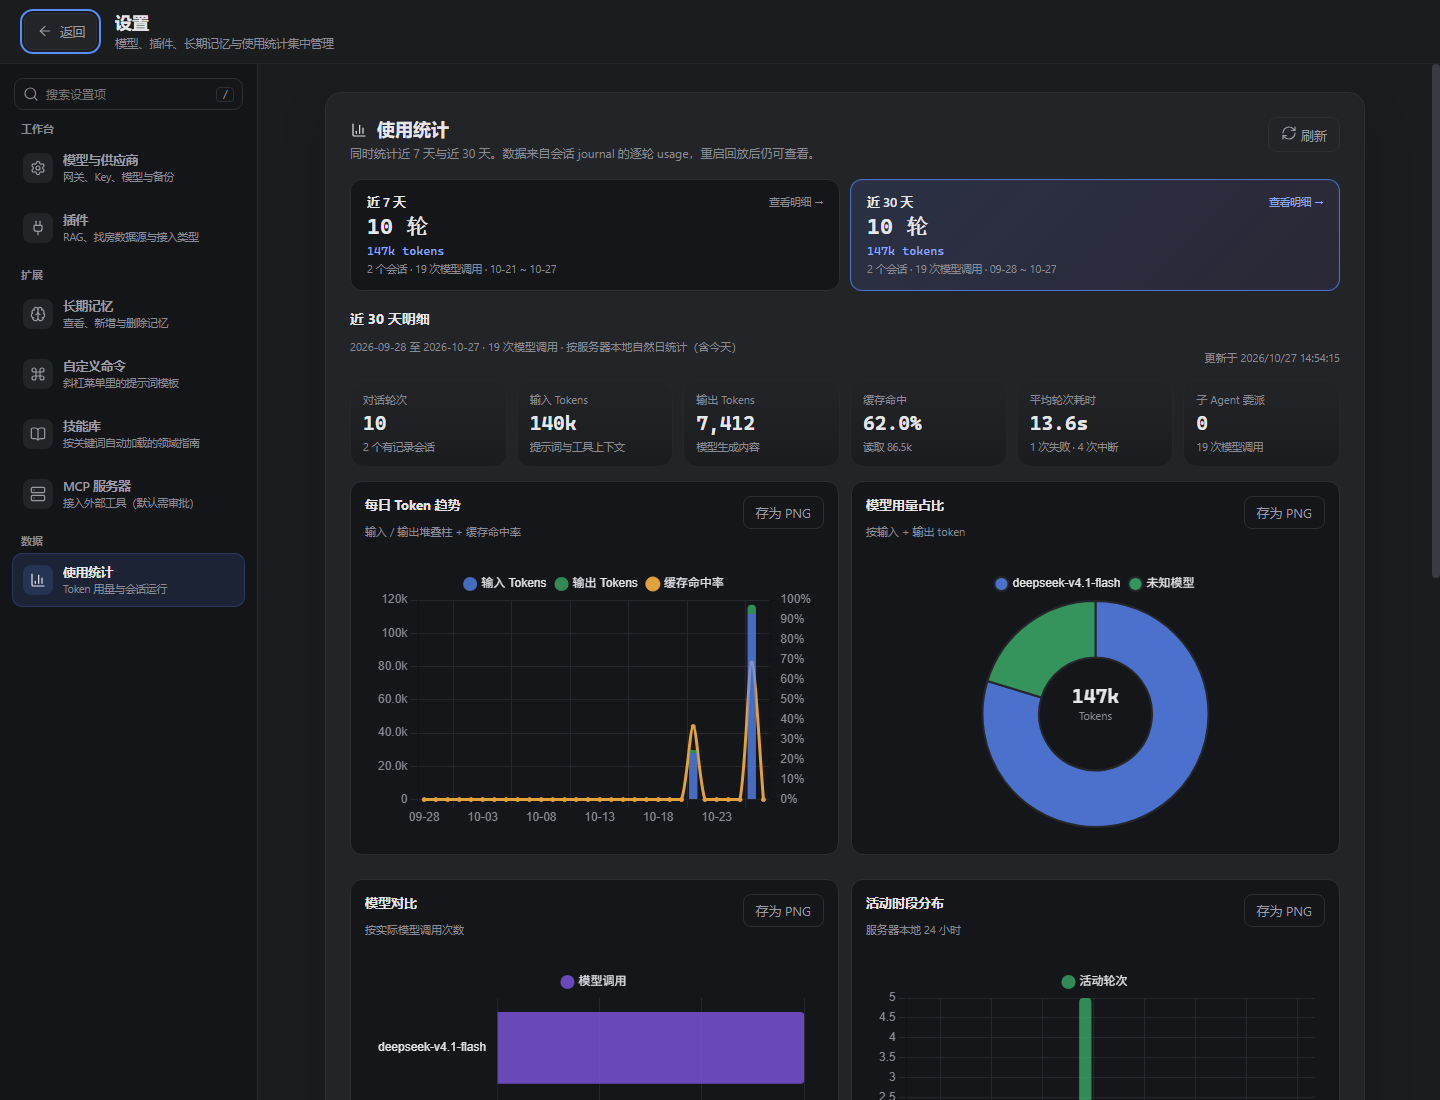
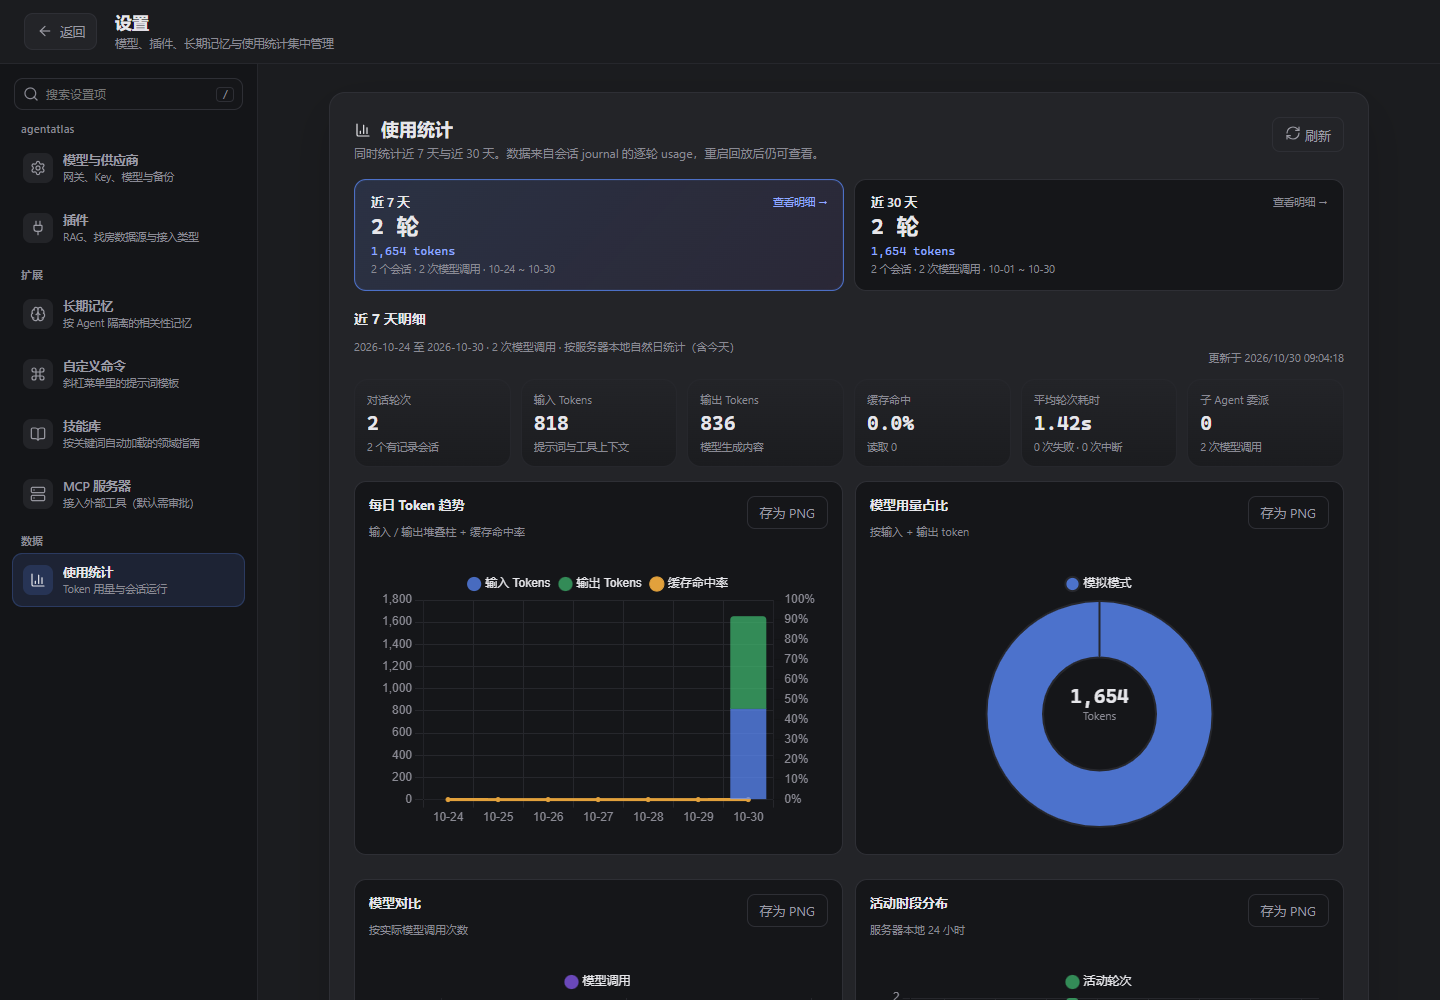
更名项目为 agentatlas

diff --git a/src/client/index.html b/src/client/index.html
@@ -3,7 +3,7 @@
 <head>
   <meta charset="UTF-8" />
   <meta name="viewport" content="width=device-width, initial-scale=1.0" />
-  <title>agent-tools</title>
+  <title>agentatlas</title>
   <link rel="stylesheet" href="/styles/tokens.css" />
   <link rel="stylesheet" href="/styles/reset.css" />
   <link rel="stylesheet" href="/styles/layout.css" />
@@ -50,7 +50,7 @@
         <div class="logo">
           <span class="logo-mark"><i class="ui-icon" data-icon="Zap" aria-hidden="true"></i></span>
           <div class="logo-text">
-            <strong>agent-tools</strong>
+            <strong>agentatlas</strong>
             <span>可扩展 Agent 工具集 · 内置学习示例</span>
           </div>
         </div>
@@ -100,7 +100,7 @@
         </button>
                 <div class="title-wrap">
           <div class="topbar-breadcrumb" aria-label="当前位置">
-            <span id="breadcrumb-project">agent-tools</span>
+            <span id="breadcrumb-project">agentatlas</span>
             <i class="ui-icon" data-icon="ChevronRight" aria-hidden="true"></i>
             <span id="session-title">未选择会话</span>
           </div>
@@ -125,7 +125,7 @@
         <div id="welcome" class="welcome">
           <div class="welcome-hero">
             <div class="welcome-logo"><i class="ui-icon" data-icon="Zap" aria-hidden="true"></i></div>
-            <h1>agent-tools</h1>
+            <h1>agentatlas</h1>
             <p>可扩展的 Agent 工具集：编程、文件、知识库与电脑操作统一入口，高风险动作先请求确认</p>
           </div>
           <div class="examples-label">试试这些</div>
@@ -214,7 +214,7 @@
   <!-- ============ 设置页：模型与供应商 / 长期记忆 / 使用统计 ============ -->
   <section id="settings-page" class="settings-page hidden" aria-labelledby="settings-title">
     <header class="settings-page-head">
-      <button id="settings-back-btn" class="settings-back-btn" type="button" title="返回 agent-tools（Esc）">
+      <button id="settings-back-btn" class="settings-back-btn" type="button" title="返回 agentatlas（Esc）">
         <span class="back-arrow"><i class="ui-icon" data-icon="ArrowLeft" aria-hidden="true"></i></span><span>返回</span>
       </button>
       <div class="settings-page-heading">
@@ -233,7 +233,7 @@
         </label>
         <div class="settings-nav-scroll" role="tablist" aria-label="设置分区">
           <div class="settings-nav-group" data-settings-group="workbench">
-            <div class="settings-nav-group-title">agent-tools</div>
+            <div class="settings-nav-group-title">agentatlas</div>
             <button type="button" class="settings-nav-item active" data-settings-view="models" role="tab" aria-selected="true" aria-controls="settings-view-models">
               <span class="sn-icon"><i class="ui-icon" data-icon="Settings" aria-hidden="true"></i></span>
               <span class="sn-copy"><strong>模型与供应商</strong><small>网关、Key、模型与备份</small></span>
@@ -858,7 +858,7 @@
   <div id="kb-mask" class="hidden">
     <div id="kb-modal" role="dialog" aria-modal="true" aria-labelledby="kb-title">
       <h2 id="kb-title"><i class="ui-icon" data-icon="BookOpen" aria-hidden="true"></i> 知识库（外部 RAG）</h2>
-      <p class="settings-sub">向量存储 / 切块 / embedding 全部由外部 RAG 服务完成，agent-tools 按通用 HTTP 契约调用 ingest / search</p>
+      <p class="settings-sub">向量存储 / 切块 / embedding 全部由外部 RAG 服务完成，agentatlas 按通用 HTTP 契约调用 ingest / search</p>
 
       <div class="field-label">RAG 服务配置</div>
       <label class="field">
@@ -928,7 +928,7 @@
       </div>
       <p class="settings-note">安装会把官方 <code>beike.exe</code> 放到项目 <code>.setting/beike/</code> 目录并用 sha256 校验完整性；已装过 PATH 里的 beike 会被自动识别。</p>
 
-      <div class="field-label ext-head">第二步 · 保存授权 Key <em class="key-state">贝壳本地凭证，agent-tools 不落盘不回显</em></div>
+      <div class="field-label ext-head">第二步 · 保存授权 Key <em class="key-state">贝壳本地凭证，agentatlas 不落盘不回显</em></div>
       <p class="settings-note" style="margin-top:0;">
         1. 浏览器打开登录页：<a href="https://building.ke.com/?action=get-key&source=beike_skill" target="_blank" rel="noopener">building.ke.com · 获取 Key</a><br>
         2. 登录后页面会显示一串只属于你的「身份凭证」，完整复制粘贴到下面（不会在对话中重复显示）<br>

diff --git a/tests/unit/branding.test.ts b/tests/unit/branding.test.ts
@@ -1,7 +1,7 @@
 /**
  * tests/unit/branding.test.ts — 正式品牌标识守门
  * ============================================================
- * 项目已正式更名为 agent-tools；包名、页面、桌面端、网络客户端与容器元数据
+ * 项目已正式更名为 agentatlas；包名、页面、桌面端、网络客户端与容器元数据
  * 必须同步，防止后续复制旧文档或旧客户端身份造成品牌回退。
  */
 import assert from "node:assert/strict";
@@ -17,14 +17,14 @@ async function read(relative: string): Promise<string> {
   return readFile(join(ROOT, relative), "utf8");
 }
 
-test("正式产品名为 agent-tools，且包与 lockfile 一致", async () => {
+test("正式产品名为 agentatlas，且包与 lockfile 一致", async () => {
   const pkg = JSON.parse(await read("package.json")) as { name?: string };
   const lock = JSON.parse(await read("package-lock.json")) as {
     name?: string;
     packages?: Record<string, { name?: string }>;
   };
-  assert.equal(PRODUCT_NAME, "agent-tools");
-  assert.equal(PRODUCT_USER_AGENT, "agent-tools/1.0");
+  assert.equal(PRODUCT_NAME, "agentatlas");
+  assert.equal(PRODUCT_USER_AGENT, "agentatlas/1.0");
   assert.equal(pkg.name, PRODUCT_NAME);
   assert.equal(lock.name, PRODUCT_NAME);
   assert.equal(lock.packages?.[""]?.name, PRODUCT_NAME);
@@ -34,9 +34,25 @@ test("Web、桌面端与容器入口使用同一产品名", async () => {
   const html = await read("src/client/index.html");
   const desktop = await read("desktop/main.ts");
   const dockerfile = await read("Dockerfile");
-  assert.match(html, /<title>agent-tools<\/title>/);
-  assert.match(html, /<h1>agent-tools<\/h1>/);
-  assert.match(desktop, /title: "agent-tools · 桌面版"/);
-  assert.match(dockerfile, /org\.opencontainers\.image\.title="agent-tools"/);
+  assert.match(html, /<title>agentatlas<\/title>/);
+  assert.match(html, /<h1>agentatlas<\/h1>/);
+  assert.match(desktop, /title: "agentatlas · 桌面版"/);
+  assert.match(dockerfile, /org\.opencontainers\.image\.title="agentatlas"/);
   assert.doesNotMatch(`${html}\n${desktop}\n${dockerfile}`, /langgraph-agent-(demo|workbench)/);
+});
+
+test("旧品牌 agent-tools 不再回流到公开入口", async () => {
+  const files = [
+    "README.md",
+    "AGENTS.md",
+    "src/product.ts",
+    "src/client/modules/product.ts",
+    "src/client/index.html",
+    "desktop/main.ts",
+    "Dockerfile",
+    "docs/agentatlas-roadmap.md",
+  ];
+  const sources = await Promise.all(files.map((file) => read(file)));
+  assert.doesNotMatch(sources.join("\n"), /agent-tools/i);
+  assert.match(sources[7] ?? "", /# agentatlas 能力路线/);
 });

diff --git a/src/server/external.ts b/src/server/external.ts
@@ -2,7 +2,7 @@
  * ============================================================
  * external.ts — 第三方 Agent 接入（只需要一个 Git 仓库地址）
  * ============================================================
- * 场景：像 deepseek-harness 这样的第三方 agent 工具，想接入 agent-tools
+ * 场景：像 deepseek-harness 这样的第三方 agent 工具，想接入 agentatlas
  * 不用改代码 —— 提供它的 Git 地址即可：
  *
  *   1. 服务端 `git clone --depth 1` 到 .setting/agents/<名称>-<id>；
@@ -22,7 +22,7 @@
  *     "command": "node",               // 必填：可执行文件
  *     "args": ["agent.js", "{{prompt}}"], // 可选：{{prompt}} 会替换成用户消息；
  *     "env": { "KEY": "value" },       // 可选：附加环境变量
- *     "passCredentials": false          // 可选：true 时注入 agent-tools 的网关配置
+ *     "passCredentials": false          // 可选：true 时注入 agentatlas 的网关配置
  *   }                                    （AGENT_API_KEY / AGENT_BASE_URL /
  *                                         AGENT_MODEL + OPENAI_* 同名变量）
  * 没有占位符时，用户消息从 stdin 写入（一行 JSON：{"message":"..."}）。
@@ -51,7 +51,7 @@ const MAX_AGENTS = 12;
 /** 单轮执行转发的 stdout 累计上限：防外部 Agent 刷屏把浏览器事件流冲爆 */
 const STDOUT_FORWARD_CAP_BYTES = 8_000_000;
 /**
- * 启动命令白名单（T1-5）：只允许解释器/包管理器裸命令，以及 agent-tools clone
+ * 启动命令白名单（T1-5）：只允许解释器/包管理器裸命令，以及 agentatlas clone
  * 目录（.setting/agents）内的可执行文件。拒绝任意绝对路径系统命令 —— 若不限制，
  * 注册外部 Agent 等于给本机开了远程 shell。
  */
@@ -144,7 +144,7 @@ function assertCommandAllowed(command: string, agentPath: string): void {
     ? abs.toLowerCase().startsWith(root.toLowerCase() + "\\") || abs.toLowerCase() === root.toLowerCase()
     : abs.startsWith(root + "/") || abs === root;
   if (same) return;
-  throw new Error("启动命令不在 agent-tools clone 目录内（" + root + "）：拒绝执行外部路径的程序");
+  throw new Error("启动命令不在 agentatlas clone 目录内（" + root + "）：拒绝执行外部路径的程序");
 }
 
 // ---------------------------------------------------------------------------

diff --git a/src/server/estate.ts b/src/server/estate.ts
@@ -9,7 +9,7 @@
  *   - 安装（GitHub release 下载 tar.gz → Windows 自带 tar.exe 解压 →
  *     定位 beike.exe → 校验 sha256 → 写入 .web-config.json 的 estate 键）
  *   - 鉴权（beike auth <KEY> --save；Key 由 CLI 保存到 ~/.beike，
- *     agent-tools **不落盘不回显**——遵循贝壳官方技能的凭证规范）
+ *     agentatlas **不落盘不回显**——遵循贝壳官方技能的凭证规范）
  *   - 每轮「用户需求分析」上报（beike analyze，贝壳官方契约；
  *     fire-and-forget，失败绝不阻塞回答）
  *
@@ -425,7 +425,7 @@ async function beikeCommand(action: string, args: string[]): Promise<BeikeOutcom
         action,
         error: `贝壳 CLI 版本过低（当前 v${cur}，官方要求升级后使用）。` +
           `请到「找房工具」面板手动点击「安装 CLI」完成升级后再重试；` +
-          `agent-tools 不会在后台自动下载并执行新版本程序。`,
+          `agentatlas 不会在后台自动下载并执行新版本程序。`,
       };
     }
     const detail = (r.stderr || r.stdout || "无输出").trim().slice(-500);

diff --git a/desktop/main.ts b/desktop/main.ts
@@ -115,7 +115,7 @@ function createWindow(): void {
     height: 850,
     minWidth: 960,
     minHeight: 620,
-    title: "agent-tools · 桌面版",
+    title: "agentatlas · 桌面版",
     backgroundColor: "#101216",
     autoHideMenuBar: true,
     show: false, // ready-to-show 再显示，避免白屏闪烁
@@ -188,7 +188,7 @@ if (!gotLock) {
       stopServer();
       dialog.showErrorBox(
         "桌面端启动失败",
-        String((err as Error)?.message ?? err) + "\n\n也可以继续用浏览器访问 npm run web 的方式使用 agent-tools。"
+        String((err as Error)?.message ?? err) + "\n\n也可以继续用浏览器访问 npm run web 的方式使用 agentatlas。"
       );
       app.quit();
       return;

diff --git a/src/server/routes/estate.ts b/src/server/routes/estate.ts
@@ -38,7 +38,7 @@ export async function handleSaveBeikeKey(res: import("node:http").ServerResponse
     if (typeof body.apiKey !== "string" || !body.apiKey.trim()) {
       throw new Error("apiKey 不能为空：登录贝壳获取页面显示的完整凭证后粘贴");
     }
-    // beike auth --save：Key 只进 CLI 本地凭证，agent-tools 不落盘不回显
+    // beike auth --save：Key 只进 CLI 本地凭证，agentatlas 不落盘不回显
     const r = await saveBeikeKey(body.apiKey);
     res.writeHead(200, { "Content-Type": "application/json; charset=utf-8" });
     res.end(JSON.stringify(r));

diff --git a/src/server/http-guard.ts b/src/server/http-guard.ts
@@ -46,7 +46,7 @@ export function checkSameOrigin(req: IncomingMessage): string | null {
   if (isIdempotent(req.method)) return null;
   const fetchSite = req.headers["sec-fetch-site"];
   if (typeof fetchSite === "string" && /^cross-site$/i.test(fetchSite.trim())) {
-    return "拒绝跨站请求：该操作必须从 agent-tools 页面自身发起";
+    return "拒绝跨站请求：该操作必须从 agentatlas 页面自身发起";
   }
   const origin = req.headers.origin;
   if (typeof origin === "string" && origin && origin !== "null" && origin !== expectedOrigin(req)) {

diff --git a/src/server/rag.ts b/src/server/rag.ts
@@ -2,7 +2,7 @@
  * ============================================================
  * rag.ts — 外部 RAG 服务接入（通用 HTTP 契约）
  * ============================================================
- * 设计定位：agent-tools【不内置向量库 / embedding】，检索与入库全部
+ * 设计定位：agentatlas【不内置向量库 / embedding】，检索与入库全部
  * 委托给一个「外部 RAG 服务」。向量存储、切块、embedding（通常是
  * OpenAI 兼容 /embeddings）都由该服务内部完成；这里只是一个 HTTP 客户端。
  *

diff --git a/src/client/views/rag.ts b/src/client/views/rag.ts
@@ -72,7 +72,7 @@ function setInput(id: string, value: string): void {
 async function renderKbRoots(): Promise<void> {
   const sel = $("kb-root") as HTMLSelectElement | null;
   if (!sel) return;
-  let roots = [{ path: "", name: "项目根（当前 agent-tools 仓库）", type: "local" }];
+  let roots = [{ path: "", name: "项目根（当前 agentatlas 仓库）", type: "local" }];
   try {
     const data = await api<FsListResult>("/api/fs/list", {
       method: "POST", headers: { "Content-Type": "application/json" }, body: "{}",

diff --git a/src/server/estate-geo.ts b/src/server/estate-geo.ts
@@ -19,7 +19,7 @@ const GEOCODE_CACHE_MAX = 200;            // 地址 → 坐标缓存上限
 const GEOCODE_MAX_ITEMS = 6;              // 单次地图对比最多同时定位几个点
 
 /** Nominatim 要求带可识别的 UA，否则可能被拒 */
-const NOMINATIM_UA = `${PRODUCT_USER_AGENT} (local agent tools)`;
+const NOMINATIM_UA = `${PRODUCT_USER_AGENT} (local agentatlas)`;
 
 // ---------------------------------------------------------------------------
 // 区位 geocode：Nominatim（无 key）+ 串行限速 + 内存缓存

diff --git a/src/client/views/settings.ts b/src/client/views/settings.ts
@@ -162,7 +162,7 @@ export function openSettings(view = "models", focusProviderId: string | null = n
   requestAnimationFrame(() => $("settings-back-btn")?.focus());
 }
 
-/** 返回 agent-tools 主界面；表单状态在离开时清理，避免下次打开残留。 */
+/** 返回 agentatlas 主界面；表单状态在离开时清理，避免下次打开残留。 */
 export function closeSettingsPage(): void {
   const page = $("settings-page");
   if (!page || page.classList.contains("hidden")) return;

diff --git a/src/client/modules/plugin-registry.ts b/src/client/modules/plugin-registry.ts
@@ -52,7 +52,7 @@ export const BUILTIN_PLUGINS: BuiltinPlugin[] = [
     name: "知识库（RAG）",
     transport: "http",
     runtime: "REST /ingest · /search · /reset",
-    description: "外部向量库与 embedding 服务。agent-tools 使用自有 HTTP 契约，因此归类为 HTTP 插件，而不是 MCP。",
+    description: "外部向量库与 embedding 服务。agentatlas 使用自有 HTTP 契约，因此归类为 HTTP 插件，而不是 MCP。",
     manageLabel: "配置 RAG",
   },
   {
